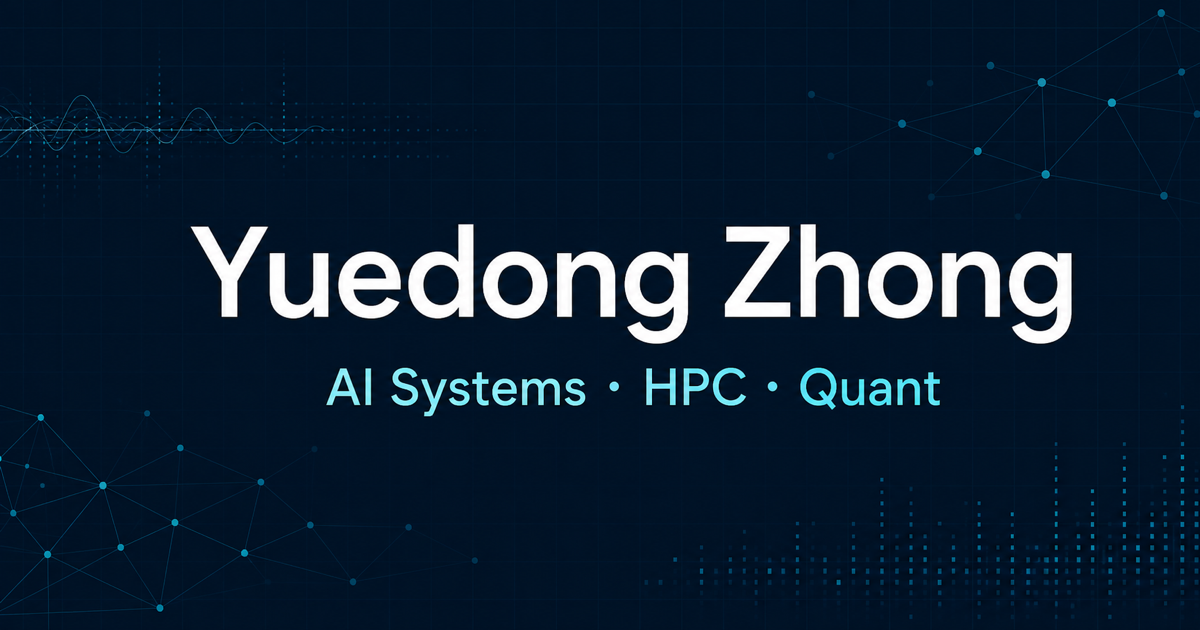
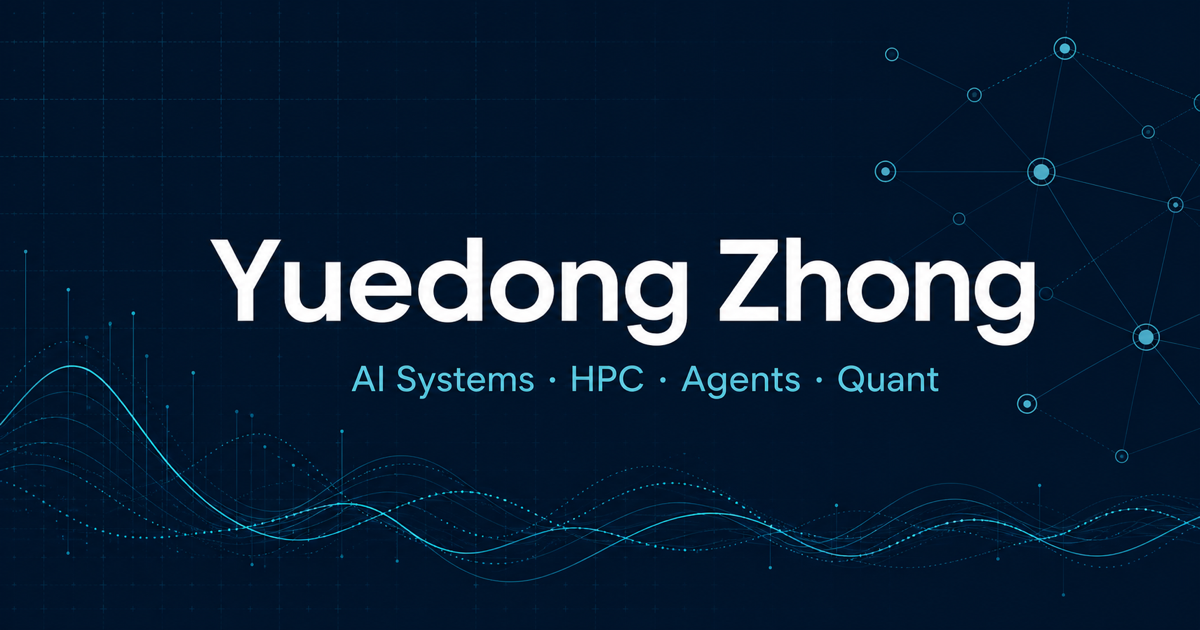
content: expand research profile and publications

diff --git a/index.html b/index.html
@@ -4,18 +4,18 @@
     <meta charset="utf-8">
     <meta name="viewport" content="width=device-width, initial-scale=1">
     <meta name="theme-color" content="#071a2b">
-    <meta name="description" content="Yuedong Zhong is a Ph.D. student in Computer Science and Engineering at CUHK, working on AI systems, high-performance computing, and quantitative research.">
+    <meta name="description" content="Yuedong Zhong is a Ph.D. student in Computer Science and Engineering at CUHK, working on AI systems, high-performance computing, AI agents, and quantitative research.">
     <meta property="og:type" content="profile">
     <meta property="og:title" content="Yuedong Zhong — AI Systems · HPC · Quant">
-    <meta property="og:description" content="Ph.D. student at CUHK CSE working on efficient and reliable AI systems, high-performance computing, and quantitative research.">
+    <meta property="og:description" content="Ph.D. student at CUHK CSE working on efficient and reliable AI systems, high-performance computing, AI agents, and quantitative research.">
     <meta property="og:url" content="https://adeshen.github.io/">
-    <meta property="og:image" content="https://adeshen.github.io/assets/img/og.png">
+    <meta property="og:image" content="https://adeshen.github.io/assets/img/og.png?v=2">
     <meta property="og:image:width" content="1200">
     <meta property="og:image:height" content="630">
     <meta name="twitter:card" content="summary_large_image">
     <meta name="twitter:title" content="Yuedong Zhong — AI Systems · HPC · Quant">
-    <meta name="twitter:description" content="Ph.D. student at CUHK CSE working on efficient and reliable AI systems, high-performance computing, and quantitative research.">
-    <meta name="twitter:image" content="https://adeshen.github.io/assets/img/og.png">
+    <meta name="twitter:description" content="Ph.D. student at CUHK CSE working on efficient and reliable AI systems, high-performance computing, AI agents, and quantitative research.">
+    <meta name="twitter:image" content="https://adeshen.github.io/assets/img/og.png?v=2">
     <title>Yuedong Zhong — AI Systems · HPC · Quant</title>
     <link rel="canonical" href="https://adeshen.github.io/">
     <link rel="icon" href="assets/img/favicons/favicon.ico">
@@ -40,7 +40,7 @@
           "name": "Sun Yat-sen University"
         },
         "sameAs": ["https://github.com/Adeshen"],
-        "knowsAbout": ["AI Systems", "High-Performance Computing", "Reliable LLM Systems", "Quantitative Research"]
+        "knowsAbout": ["AI Systems", "High-Performance Computing", "AI Agents", "Reliable LLM Systems", "Quantitative Research"]
       }
     </script>
   </head>
@@ -72,7 +72,7 @@
               I am <strong>Yuedong Zhong</strong>, a Ph.D. student in Computer Science and Engineering at
               <a href="https://www.cse.cuhk.edu.hk/" target="_blank" rel="noreferrer">The Chinese University of Hong Kong</a>.
               I am advised by <a href="https://www.cse.cuhk.edu.hk/lyu/" target="_blank" rel="noreferrer">Prof. Michael R. Lyu</a>.
-              My work sits at the intersection of AI systems, high-performance computing, and quantitative research.
+              My work sits at the intersection of AI systems, high-performance computing, AI agents, and quantitative research.
             </p>
             <p class="lede lede-secondary">
               Before starting my Ph.D., I studied at Sun Yat-sen University and worked as a research assistant at CUHK.
@@ -81,6 +81,7 @@
             <div class="topic-list" aria-label="Research interests">
               <span>AI Systems</span>
               <span>High-Performance Computing</span>
+              <span>AI Agents</span>
               <span>Reliable LLM Systems</span>
               <span>Quantitative Research</span>
             </div>
@@ -98,7 +99,7 @@
             <dl class="profile-facts">
               <div><dt>Current</dt><dd>Ph.D. Student, CUHK</dd></div>
               <div><dt>Advisor</dt><dd><a href="https://www.cse.cuhk.edu.hk/lyu/" target="_blank" rel="noreferrer">Prof. Michael R. Lyu ↗</a></dd></div>
-              <div><dt>Focus</dt><dd>AI Systems &amp; HPC</dd></div>
+              <div><dt>Focus</dt><dd>AI Systems, HPC &amp; Agents</dd></div>
               <div><dt>Also</dt><dd>Crypto Quant, part-time</dd></div>
             </dl>
             <div class="profile-links">
@@ -109,10 +110,10 @@
         </div>
 
         <div class="signal-row" aria-label="At a glance">
-          <div><strong>03</strong><span>Selected papers</span></div>
+          <div><strong>04</strong><span>Selected papers</span></div>
           <div><strong>02</strong><span>Research institutions</span></div>
-          <div><strong>03</strong><span>Core research directions</span></div>
-          <p>Systems-minded research, from low-bit LLM kernels to reliable multi-agent diagnosis.</p>
+          <div><strong>04</strong><span>Core research directions</span></div>
+          <p>Systems-minded research, from low-bit LLM kernels to reliable AI agents and multi-agent diagnosis.</p>
         </div>
       </section>
 
@@ -147,7 +148,7 @@
               </li>
               <li>
                 <span class="timeline-marker"></span>
-                <div class="timeline-meta">Research</div>
+                <div class="timeline-meta">2025.03–07</div>
                 <div>
                   <h4>Research Assistant</h4>
                   <p>The Chinese University of Hong Kong</p>
@@ -211,7 +212,7 @@
               <p class="kicker">Research</p>
               <h2>Selected publications</h2>
             </div>
-            <p>Work across dependable AI services, retrieval-augmented systems, and efficient LLM inference.</p>
+            <p>Work across dependable AI services, agentic systems, retrieval-augmented systems, and efficient LLM inference.</p>
           </div>
 
           <div class="publication-list">
@@ -233,6 +234,21 @@
             <article class="publication">
               <div class="pub-index">02</div>
               <div class="pub-body">
+                <div class="pub-meta"><span class="venue venue-arxiv">arXiv ’26</span><span>LLM Reliability</span></div>
+                <h3>Why Does the LLM Stop Computing: An Empirical Study of User-Reported Failures in Open-Source LLMs</h3>
+                <p class="authors">Guangba Yu, Zirui Wang, Yujie Huang, Renyi Zhong, <strong>Yuedong Zhong</strong>, Yilun Wang, Michael R. Lyu</p>
+                <p class="abstract">A large-scale empirical study of 705 real-world failures across the open-source DeepSeek, Llama, and Qwen ecosystems, revealing systemic reliability barriers in user-managed LLM deployment stacks.</p>
+                <div class="pub-links">
+                  <a href="https://arxiv.org/abs/2601.13655" target="_blank" rel="noreferrer">arXiv <span aria-hidden="true">↗</span></a>
+                  <a href="https://arxiv.org/pdf/2601.13655" target="_blank" rel="noreferrer">PDF <span aria-hidden="true">↗</span></a>
+                </div>
+              </div>
+              <div class="pub-year">2026</div>
+            </article>
+
+            <article class="publication">
+              <div class="pub-index">03</div>
+              <div class="pub-body">
                 <div class="pub-meta"><span class="venue venue-ase">ASE ’25</span><span class="award">Distinguished Paper Award</span></div>
                 <h3>iKnow: an Intent-Guided Chatbot for Cloud Operations with Retrieval-Augmented Generation</h3>
                 <p class="authors">Junjie Huang, <strong>Yuedong Zhong</strong>, Guangba Yu, Zhihan Jiang, Minzhi Yan, Wenfei Luan, Tianyu Yang, Rui Ren, Michael R. Lyu</p>
@@ -247,18 +263,19 @@
             </article>
 
             <article class="publication">
-              <div class="pub-index">03</div>
+              <div class="pub-index">04</div>
               <div class="pub-body">
-                <div class="pub-meta"><span class="venue venue-arxiv">arXiv</span><span>Efficient LLMs</span></div>
+                <div class="pub-meta"><span class="venue venue-iclr">ICLR ’25</span><span>Efficient LLMs</span></div>
                 <h3>STBLLM: Breaking the 1-Bit Barrier with Structured Binary LLMs</h3>
                 <p class="authors">Peijie Dong, Lujun Li, <strong>Yuedong Zhong</strong>, Dayou Du, Ruibo Fan, Yuhan Chen, Zhenheng Tang, Qiang Wang, Wei Xue, Yike Guo, Xiaowen Chu</p>
                 <p class="abstract">Structured N:M binarization pushes LLM compression below one bit per weight, paired with layer-wise allocation and a specialized CUDA kernel.</p>
                 <div class="pub-links">
+                  <a href="https://proceedings.iclr.cc/paper_files/paper/2025/hash/ff997469ac66cf893c4183efeb22212a-Abstract-Conference.html" target="_blank" rel="noreferrer">Paper <span aria-hidden="true">↗</span></a>
                   <a href="https://arxiv.org/abs/2408.01803" target="_blank" rel="noreferrer">arXiv <span aria-hidden="true">↗</span></a>
-                  <a href="https://arxiv.org/pdf/2408.01803" target="_blank" rel="noreferrer">PDF <span aria-hidden="true">↗</span></a>
+                  <a href="https://github.com/pprp/STBLLM" target="_blank" rel="noreferrer">Code <span aria-hidden="true">↗</span></a>
                 </div>
               </div>
-              <div class="pub-year">2024</div>
+              <div class="pub-year">2025</div>
             </article>
           </div>
         </div>

diff --git a/assets/css/homepage.css b/assets/css/homepage.css
@@ -583,7 +583,8 @@ blockquote {
 
 .venue { color: white; background: #1264a3; }
 .venue-ase { background: #7d3b89; }
-.venue-arxiv { background: #a33636; }
+.venue-iclr { background: #a33636; }
+.venue-arxiv { background: #5d6278; }
 .award { color: #dcffb5; background: rgba(185, 241, 124, 0.1); }
 
 .publication h3 {

diff --git a/_tabs/about.md b/_tabs/about.md
@@ -6,7 +6,7 @@ order: 4
 
 # About
 
-I am a first-year Ph.D. student in Computer Science and Engineering at The Chinese University of Hong Kong (CUHK), starting in 2026, advised by [Prof. Michael R. Lyu](https://www.cse.cuhk.edu.hk/lyu/). My research interests span AI systems, high-performance computing, reliable LLM systems, and quantitative research. Before starting my Ph.D., I studied at Sun Yat-sen University (SYSU) and worked as a research assistant at CUHK. I also work part-time on crypto quantitative research.
+I am a first-year Ph.D. student in Computer Science and Engineering at The Chinese University of Hong Kong (CUHK), starting in 2026, advised by [Prof. Michael R. Lyu](https://www.cse.cuhk.edu.hk/lyu/). My research interests span AI systems, high-performance computing, AI agents, reliable LLM systems, and quantitative research. Before starting my Ph.D., I studied at Sun Yat-sen University (SYSU) and worked as a research assistant at CUHK. I also work part-time on crypto quantitative research.
 
 # Education
 
@@ -16,13 +16,14 @@ I am a first-year Ph.D. student in Computer Science and Engineering at The Chine
 # Selected publications
 
 1. **LLMGuard: Multi-Agent Fault Diagnosis for Reliable Language-Model-as-a-Service.** DSN 2026. [Conference](https://dsn2026.github.io/cpaccepted.html) · [DOI](https://doi.org/10.1109/DSN69566.2026.00018)
-2. **iKnow: an Intent-Guided Chatbot for Cloud Operations with Retrieval-Augmented Generation.** ASE 2025. ACM SIGSOFT Distinguished Paper Award. [Paper](https://jun-jie-huang.github.io/assets/papers/ase25_iknow.pdf) · [Code](https://github.com/Jun-jie-Huang/iKnow)
-3. **STBLLM: Breaking the 1-Bit Barrier with Structured Binary LLMs.** arXiv 2024. [Paper](https://arxiv.org/abs/2408.01803)
+2. **Why Does the LLM Stop Computing: An Empirical Study of User-Reported Failures in Open-Source LLMs.** arXiv 2026. [Paper](https://arxiv.org/abs/2601.13655)
+3. **iKnow: an Intent-Guided Chatbot for Cloud Operations with Retrieval-Augmented Generation.** ASE 2025. ACM SIGSOFT Distinguished Paper Award. [Paper](https://jun-jie-huang.github.io/assets/papers/ase25_iknow.pdf) · [Code](https://github.com/Jun-jie-Huang/iKnow)
+4. **STBLLM: Breaking the 1-Bit Barrier with Structured Binary LLMs.** ICLR 2025. [Paper](https://proceedings.iclr.cc/paper_files/paper/2025/hash/ff997469ac66cf893c4183efeb22212a-Abstract-Conference.html) · [Code](https://github.com/pprp/STBLLM)
 
 # Experience
 
 - **2026–Present** — First-year Ph.D. Student, Department of Computer Science and Engineering, CUHK
-- Research Assistant, CUHK
+- **Mar. 2025–Jul. 2025** — Research Assistant, CUHK
 - Part-time crypto quantitative research
 - **May 2024–Nov. 2024** — AI Infrastructure Research Intern, Tencent Games
 - **Jul. 2023–Sep. 2023** — C++ Developer, Wizard Investment
